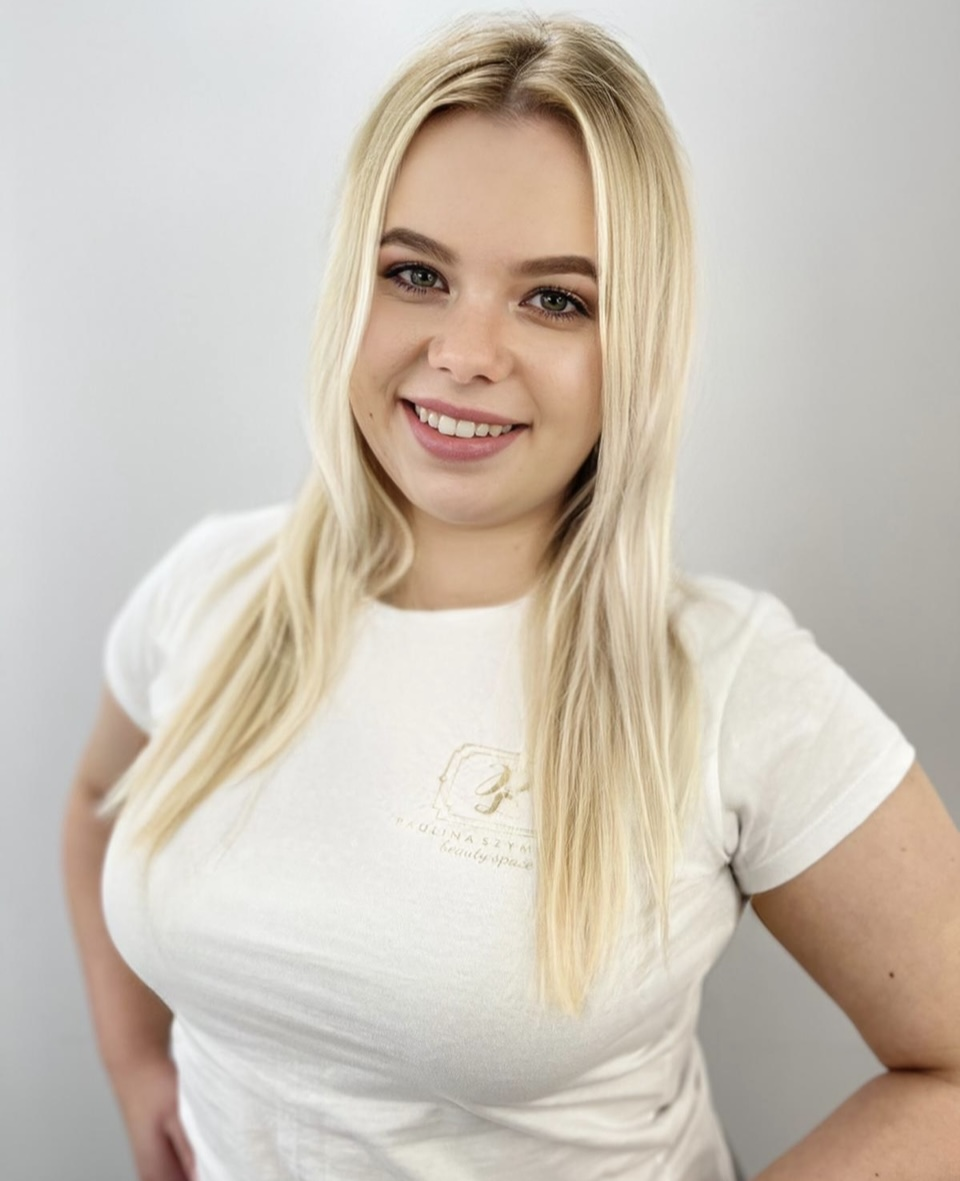
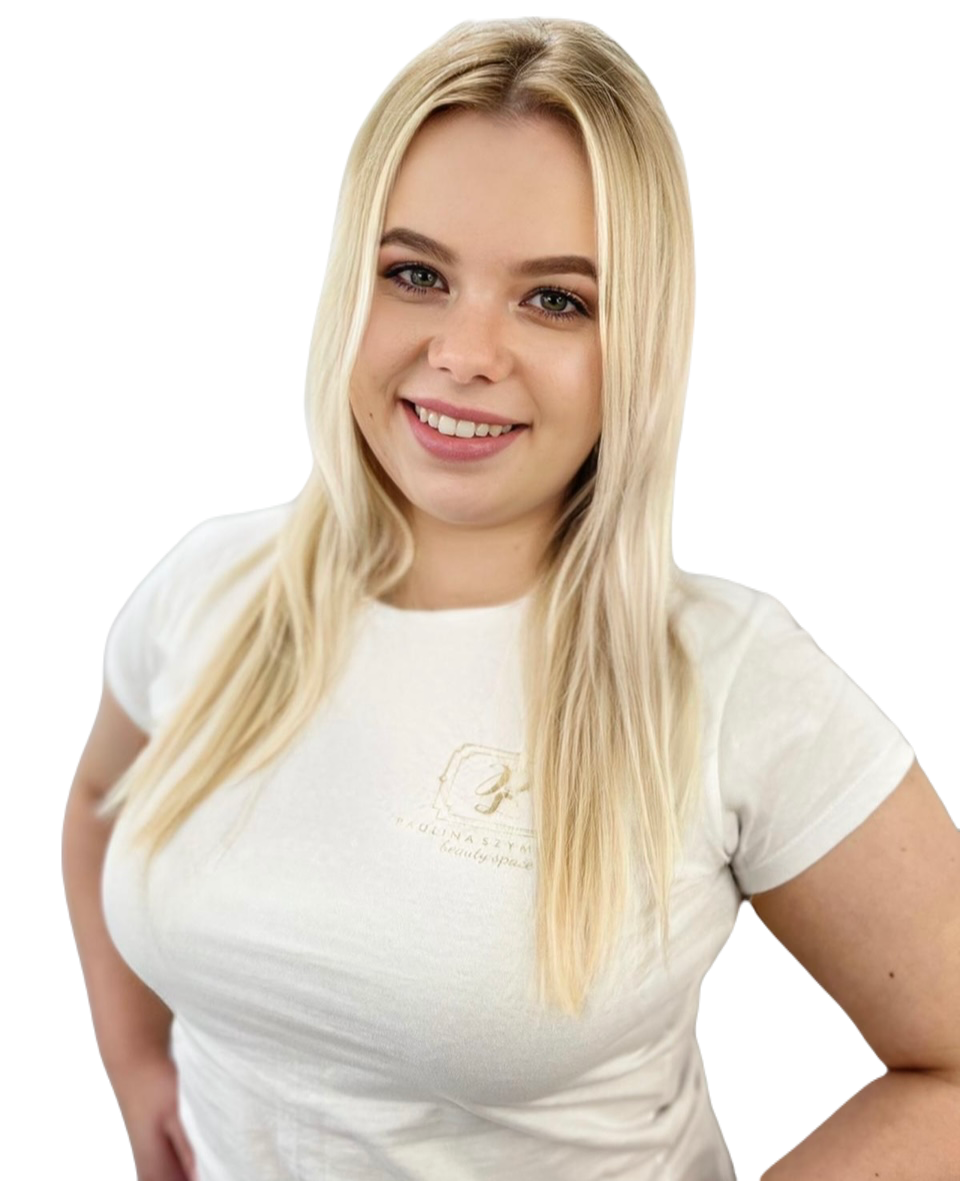
teamt component

diff --git a/components/Team.tsx b/components/Team.tsx
@@ -1,4 +1,5 @@
-import paulina from "../assets/Paulina2.jpg";
+import Paulina  from "../assets/employees/Paulina.png";
+import Karolina from "../assets/employees/Karolina.png";
 import Image from "next/image";
 
 const Team = () => {
@@ -9,13 +10,14 @@ const Team = () => {
       </section>
       <div className="px-2 ">
         <ul
-          className="flex flex-wrap list-none -mb-px text-lg text-center border-b-0 pl-0 mr-4"
+          className="flex flex-wrap  list-none -mb-px text-lg text-center border-b-0 pl-0 mr-4"
           id="tabs-list"
           role="tablist"
         >
           {pracownice.map((item) => {
             return (
               <li
+              key={item.id_content}
                 className="nav-item flex-grow text-center"
                 role="presentation"
               >
@@ -39,11 +41,12 @@ const Team = () => {
           {pracownice.map((item) => {
             return (
               <div
+              key={item.id_tab}
                 className="tab-pane fade p-4 bg-gray-50 rounded-lg dark:bg-gray-800"
                 id={item.id_content}
                 role="tabpanel"
                 aria-labelledby={item.id_tab}
-              ><Image src={paulina} layout="fill" />
+              ><Image src={Paulina} layout="fill" />
                 {item.description}
               </div>
             );
@@ -72,7 +75,7 @@ const pracownice = [
     name: "Paulina",
     position: "właścicielka, kosmetolog, lingeristka",
     description: "",
-    mainImage: "",
+    mainImage: Paulina,
     images: "",
     id_tab: "tabs-paulina-tabVertical",
     id_content: "tabs-paulina",
@@ -98,7 +101,7 @@ const pracownice = [
     position: "kosmetolog",
     description:
       "Mam na imię Karolina i jestem kosmetologiem, który nieustannie podnosi kwalifikacje i rozwija swoje umiejętności. Aktualnie kształcę się w Akademii Nauk Stosowanych im. Wincentego Pola w Lublinie na studiach magisterskich. Specjalizuje się w zabiegach na twarz, które dobieram indywidualnie do potrzeb skóry oraz oczekiwań klienta. Zajmuje się również pielęgnacją ciała oraz masażami relaksacyjnymi. Zawsze staram sie aby klient czuł się dopieszczony i zaopiekowany. Prywatnie każdą wolną chwilę wykorzystuję na odpoczynek z dobrą książka i swoim ukochanym buldogiem francuskim pod ręką.",
-    mainImage: "",
+    mainImage: Karolina,
     images: "",
     id_tab: "tabs-karolina-tabVertical",
     id_content: "tabs-karolina",

diff --git a/pages/index.tsx b/pages/index.tsx
@@ -10,7 +10,6 @@ import { sanityClient, urlFor } from "../sanity";
 import { Props } from "../types";
 
 const Home = ({ categories }: Props) => {
-
   return (
     <div>
       <Head>
@@ -29,8 +28,6 @@ const Home = ({ categories }: Props) => {
   );
 };
 
-
-
 export default Home;
 
 export const getServerSideProps = async () => {
@@ -44,6 +41,6 @@ export const getServerSideProps = async () => {
   return {
     props: {
       categories,
-    },
+    }
   };
 };

diff --git a/pages/oferta/[slug].tsx b/pages/oferta/[slug].tsx
@@ -59,5 +59,6 @@ export const getStaticProps: GetStaticProps = async ({ params }) => {
     props: {
       category,
     },
+    revalidate: 3600
   };
 };
